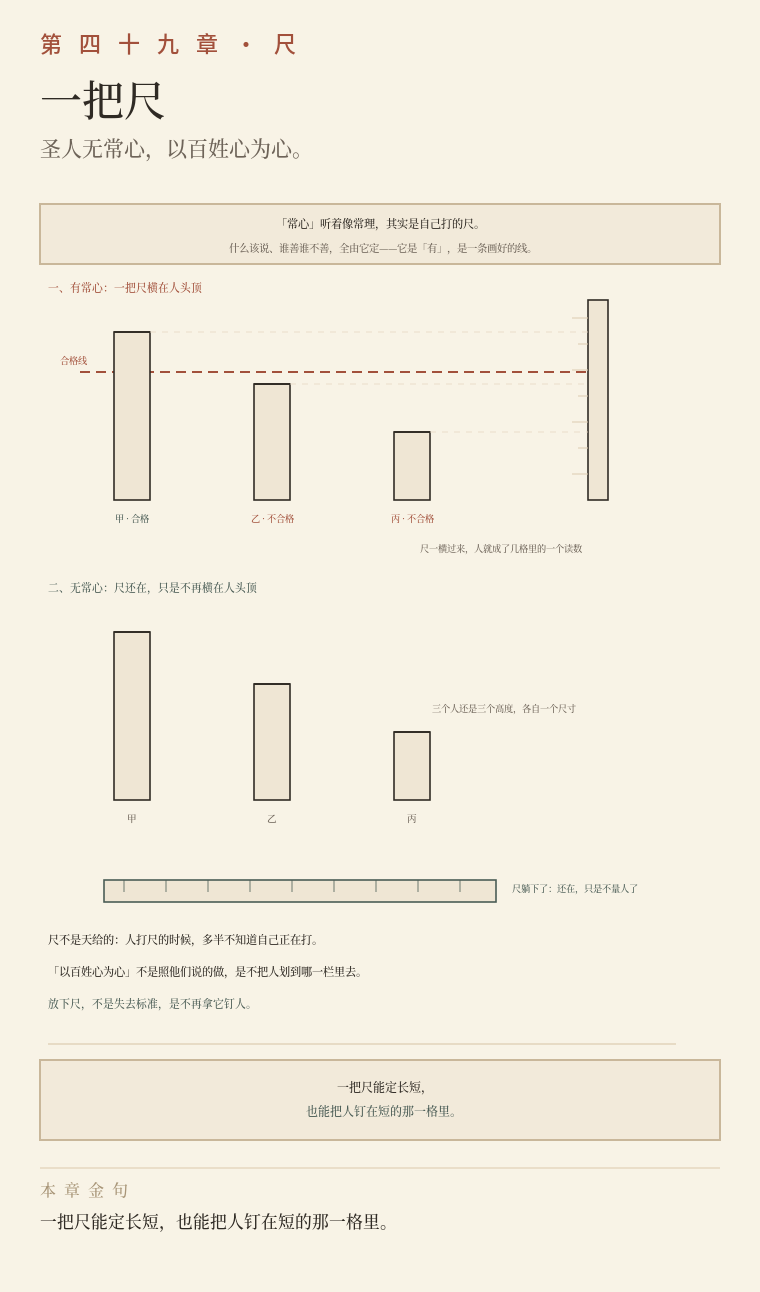
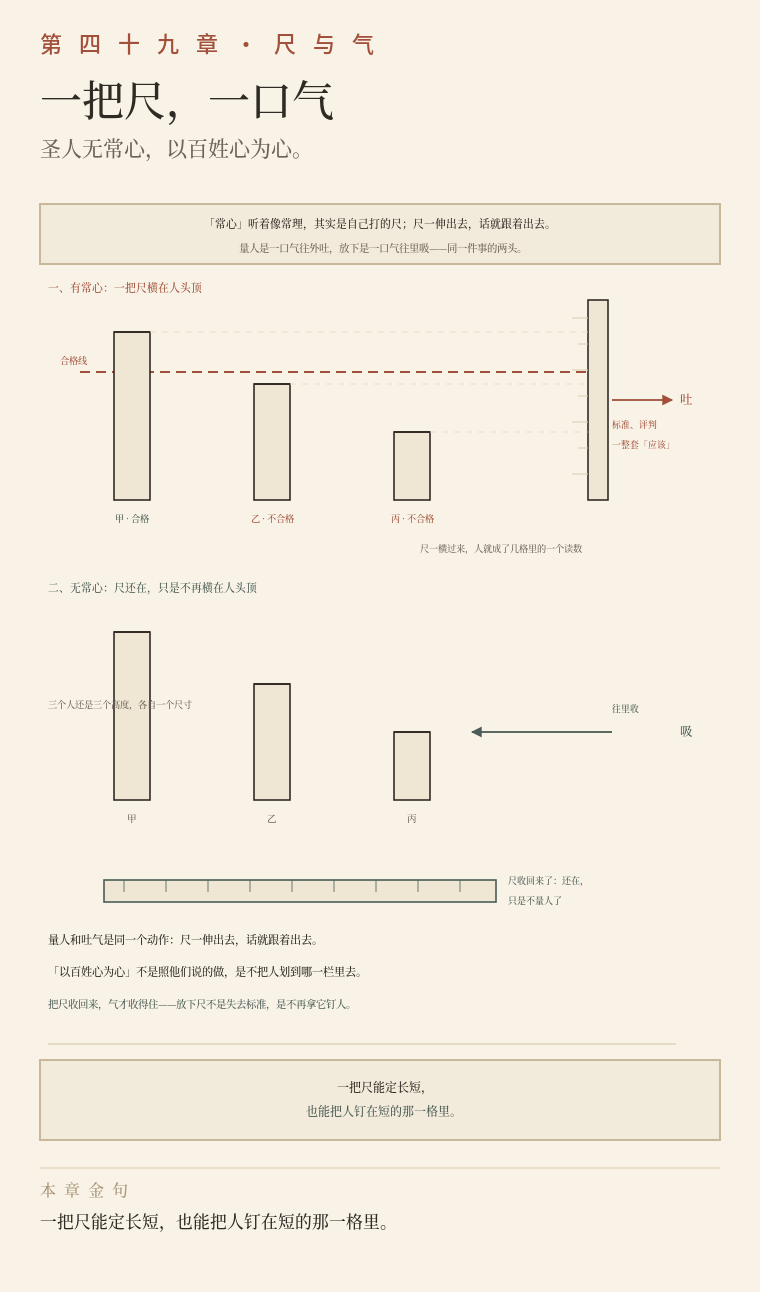
2.9.24 ch49a 融合吐吸：一把尺一口气

diff --git a/tools/make_yili_svg.py b/tools/make_yili_svg.py
@@ -4502,12 +4502,12 @@ def ch48c_guan_qia():
 def ch49a_yi_ba_chi():
     W, H = 380, 646
     body, y = head(W, H, "常心是一把自己打的尺：一把尺能定长短，也能把人钉在短的那一格里",
-                   "第 四 十 九 章 · 尺", "一把尺", "圣人无常心，以百姓心为心。", H)
+                   "第 四 十 九 章 · 尺 与 气", "一把尺，一口气", "圣人无常心，以百姓心为心。", H)
     s = [body]
 
     s.append(box(20, y + 2, 340, 30, fill="#F2EADA", stroke="#C9B79A"))
-    s.append(txt(190, y + 14, "「常心」听着像常理，其实是自己打的尺。", 5.6, INK, "middle"))
-    s.append(txt(190, y + 26, "什么该说、谁善谁不善，全由它定——它是「有」，是一条画好的线。", 5.2, "#6E6459", "middle"))
+    s.append(txt(190, y + 14, "「常心」听着像常理，其实是自己打的尺；尺一伸出去，话就跟着出去。", 5.4, INK, "middle"))
+    s.append(txt(190, y + 26, "量人是一口气往外吐，放下是一口气往里吸——同一件事的两头。", 5.2, "#6E6459", "middle"))
 
     posts = [(66, 84, "甲", "合格"), (136, 58, "乙", "不合格"), (206, 34, "丙", "不合格")]
 
@@ -4527,6 +4527,10 @@ def ch49a_yi_ba_chi():
         s.append(f'<line x1="{cx+9}" y1="{gy1-hh}" x2="294" y2="{gy1-hh}" stroke="{LINE2}" stroke-width="0.4" stroke-dasharray="3 3"/>')
         s.append(txt(cx, gy1 + 11, lab + " · " + verdict, 4.6, GREEN if verdict == "合格" else SEAL, "middle"))
     s.append(txt(210, gy1 + 26, "尺一横过来，人就成了几格里的一个读数", 4.6, "#6E6459"))
+    s.append(arrow(306, gy1 - 50, 336, gy1 - 50, SEAL, 0.9, head="arrS"))
+    s.append(txt(340, gy1 - 48, "吐", 6.2, SEAL))
+    s.append(txt(306, gy1 - 36, "标准、评判", 4.4, SEAL))
+    s.append(txt(306, gy1 - 26, "一整套「应该」", 4.4, SEAL))
 
     # 二、无常心：尺放下
     t2 = gy1 + 46
@@ -4540,13 +4544,17 @@ def ch49a_yi_ba_chi():
     s.append(f'<rect x="52" y="{gy2 + 40}" width="196" height="11" fill="#EFE6D4" stroke="{GREEN}" stroke-width="0.8"/>')
     for k in range(9):
         s.append(f'<line x1="{62 + k * 21}" y1="{gy2+40}" x2="{62 + k * 21}" y2="{gy2+46}" stroke="{GREEN}" stroke-width="0.4"/>')
-    s.append(txt(256, gy2 + 46, "尺躺下了：还在，只是不量人了", 4.6, GREEN))
-    s.append(txt(216, gy2 - 44, "三个人还是三个高度，各自一个尺寸", 4.6, "#6E6459"))
+    s.append(txt(254, gy2 + 42, "尺收回来了：还在，", 4.5, GREEN))
+    s.append(txt(254, gy2 + 52, "只是不量人了", 4.5, GREEN))
+    s.append(arrow(306, gy2 - 34, 236, gy2 - 34, GREEN, 0.9, head="arr2"))
+    s.append(txt(340, gy2 - 32, "吸", 6.2, GREEN))
+    s.append(txt(306, gy2 - 44, "往里收", 4.4, GREEN))
+    s.append(txt(24, gy2 - 46, "三个人还是三个高度，各自一个尺寸", 4.6, "#6E6459"))
 
     b = gy2 + 72
-    s.append(txt(24, b, "尺不是天给的：人打尺的时候，多半不知道自己正在打。", 5.6, INK))
+    s.append(txt(24, b, "量人和吐气是同一个动作：尺一伸出去，话就跟着出去。", 5.6, INK))
     s.append(txt(24, b + 16, "「以百姓心为心」不是照他们说的做，是不把人划到哪一栏里去。", 5.6, INK))
-    s.append(txt(24, b + 32, "放下尺，不是失去标准，是不再拿它钉人。", 5.4, GREEN))
+    s.append(txt(24, b + 32, "把尺收回来，气才收得住——放下尺不是失去标准，是不再拿它钉人。", 5.2, GREEN))
 
     c = b + 50
     s.append(f'<line x1="24" y1="{c}" x2="338" y2="{c}" stroke="{LINE}" stroke-width="0.6"/>')

diff --git a/book/义理图-体例.md b/book/义理图-体例.md
@@ -106,7 +106,7 @@
 | 四十一·b | ch41b-fan-guo-lai | 翻过来，全是反面 | 上：翻桌小象（板与四足翻在上、赭色扳手弧）；中：十二格对照（明道如昧／进道如退／夷道如颣／上德如谷／大白如辱／广德如不足／建德如偷／质真如渝／大方无隅／大器免成／大音希声／大象无形）；读图一句：不是道难懂，是道难看。 |
 | 四十 | ch40-fan-zhe | 反向的机器 | 环上双弧（翻过去／翻回来），弱作木柔曲，下附两台机器对照；本章沿用此原版 |
 | 四十 | ch40-san-dong | 一次动，三次翻 | 同一个「反」连翻三回：生一（圆而未判）、生二（一劈两半）、生三（中缝撑开，缝外标「三」） |
-| 四十九·a | ch49a-yi-ba-chi | 一把尺 | 上幅：一把竖标尺＋合格线，三根高矮不同的桩（甲合格、乙丙不合格），桩顶各引虚线到尺；下幅：同一根尺躺倒在地上，三根桩还在，头上没有横线；读图一句：一把尺能定长短，也能把人钉在短的那一格里——放下尺不是失去标准，是不再拿它钉人。 |
+| 四十九·a | ch49a-yi-ba-chi | 一把尺，一口气 | 上幅：竖标尺＋合格线，三根高矮不同的桩（甲合格、乙丙不合格），桩顶各引虚线到尺，尺右端一支赭色外吐箭头（吐：标准、评判、一整套「应该」）；下幅：同一根尺躺倒收回，三根桩还在、头顶无横线，右方一支青色内吸箭头（吸：往里收）；读图一句：量人和吐气是同一个动作——尺一伸出去话就跟着出去；把尺收回来，气才收得住。 |
 | 四十九·b | ch49b-yi-xi-yi-guan | 一吸一灌 | 上幅百姓：眼、耳是两条朝外的渠，箭头与水珠往外灌（注）；下幅圣人：一圈头，鼻孔一点，一支箭头从外往里吸（歙）；读图一句：大家都往外灌就没人吸，没人吸那个场就干了；圣人第一件事不是多说，是把灌口往回收一寸。 |
 | 四十九·c | ch49c-hun-shui-sheng | 浑，是水声 | 上幅：一条水槽被四道实墙切成五格，每格各自一泓静水；下幅：墙只剩虚线，水连成一条起伏的流水，另标一支流向箭头；读图一句：「浑」是水声不是糊涂——水还在流，只是不再一格一格地流。 |
 | 四十八·a | ch48a-yi-yu-sun | 一只器，两只手 | 左：盂里水涨到口沿、往外漫（益）；右：一只手从杯口把一块拿走（损，杯壁还在）；读图一句：学问把世界切得越来越细，切得越细越好用；可那条「通」，恰恰不在细处。 |
